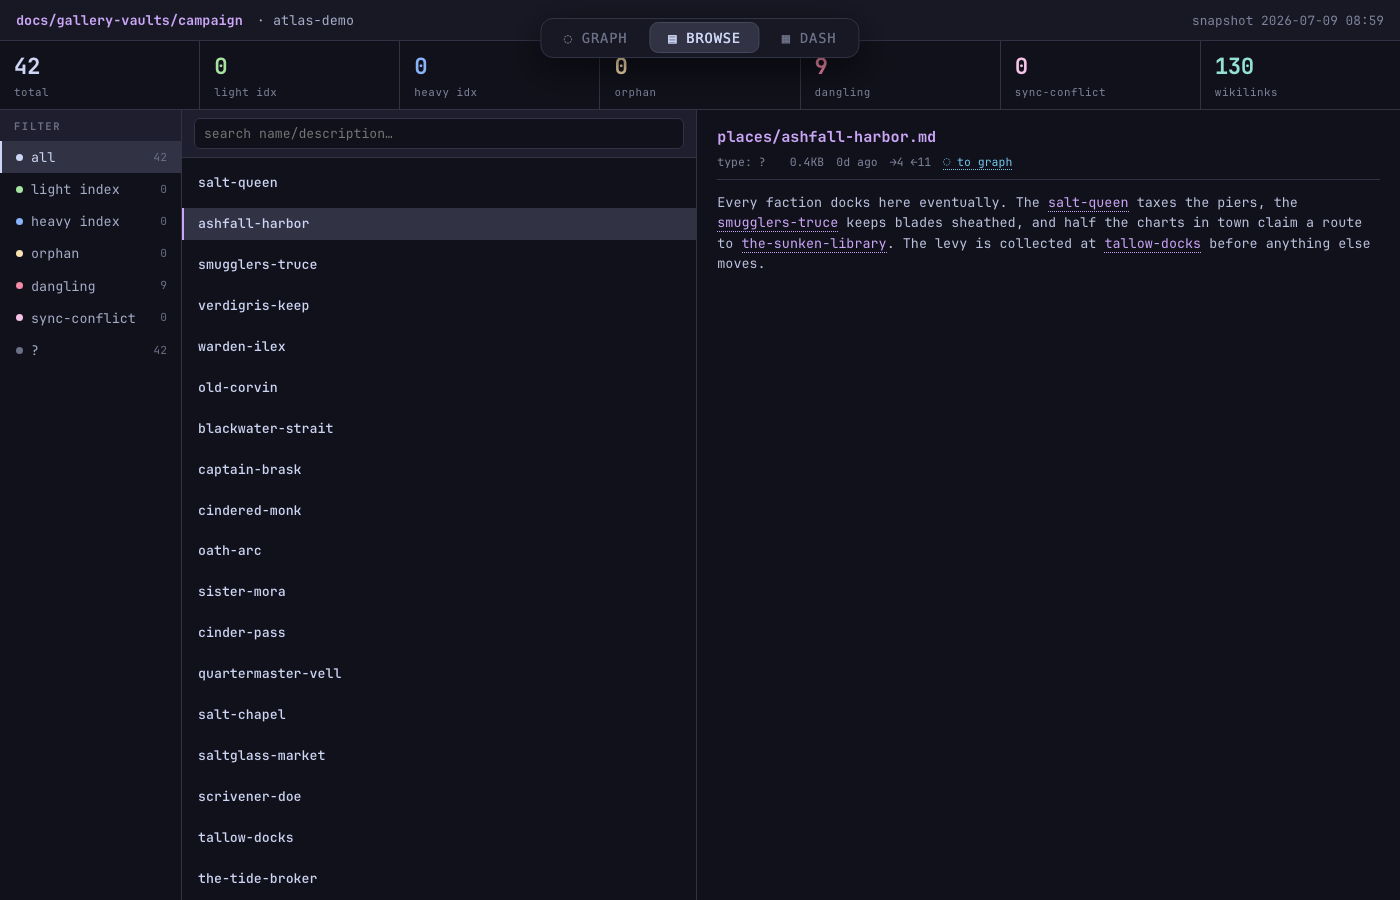
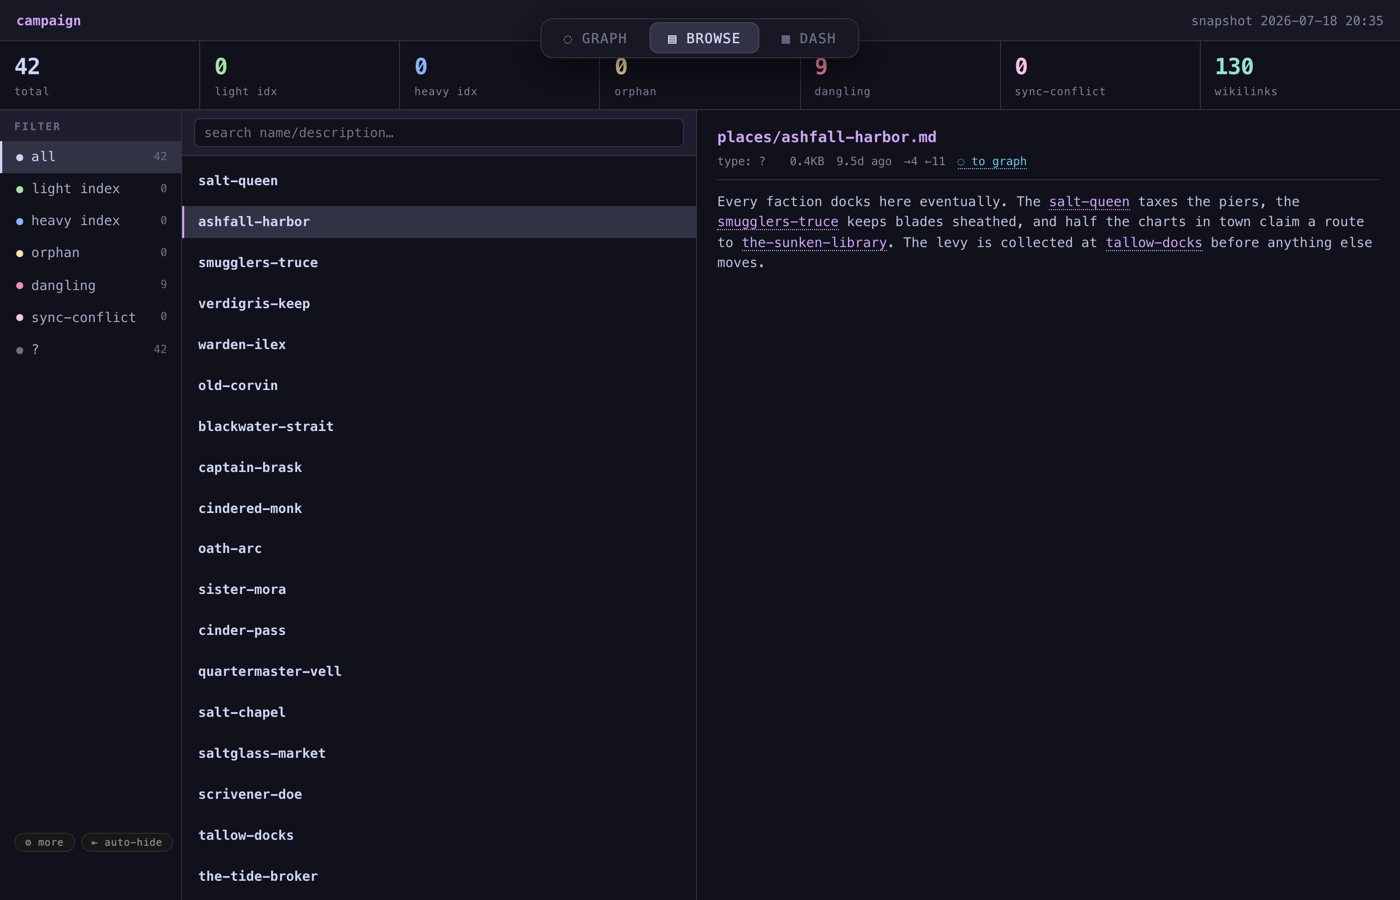
release: 2.20.0 — --anon, and a gallery that matches the tool
The generated page stamped platform.node() and the absolute vault path
into the footer, the browse header and the dash — in a file built to be
handed to people. Found it by reading /Users/<name>/ off my own
screenshots while re-shooting the gallery. --anon drops both; the flag
is documented in Privacy and covered by a self-test.

The published frames were shot at 2.4.1/2.6.0, before the 2.14 panel
rebuild and the 2.18 HUD move, and with edges drawn — but edges have
since become opt-in, so captions pointing at spokes and bridges pointed
at nothing a reader could see. All thirteen re-shot from the current
build by tools/shoot-gallery.mjs, one taste, one command next time.

Also: the README told readers to run dist/memory-atlas.pyz from a fresh
clone, and dist/ is gitignored and absent from the published tree.

diff --git a/memory-atlas.template.html b/memory-atlas.template.html
@@ -3,7 +3,7 @@
 <head>
 <meta charset="utf-8">
 <meta name="viewport" content="width=device-width, initial-scale=1">
-<meta name="atlas-tpl" content="2.19.0"><!-- G5 handshake: must equal generator VERSION; the generator warns on skew (stale symlink pair) -->
+<meta name="atlas-tpl" content="2.20.0"><!-- G5 handshake: must equal generator VERSION; the generator warns on skew (stale symlink pair) -->
 
 <title>memory-atlas</title>
 <style>

diff --git a/README.md b/README.md
@@ -8,7 +8,7 @@ The point isn't "a graph of my wikilinks". It's **overlap**: the generator runs 
 
 ![overview — four topic zones on a synergy ring, cross-zone bridges through the middle](docs/shots/overview.png)
 
-*Four folders — chemistry, cooking, gardening, music — laid out on a zone-synergy ring. The dashed lines cutting across the center are bridges the detectors drew: notes in different folders that share a missing reference, a tag, or a co-edit. Nobody wrote those links by hand.*
+*The built-in demo vault — chemistry, cooking, gardening, music — on the zone-synergy ring. Solid lines are `[[wikilinks]]` somebody typed. The dashed one crossing from the cooking arc to the chemistry arc is not: nobody wrote a note called `maillard-reaction`, but `searing-steak` in `cooking/` and `amino-acids` in `chemistry/` both cite it, and that shared gap is a bridge the `shared_ref` detector drew. (Edges start hidden in the real page — press `9` or the EDGES chip. Lines are noise until you ask for them.)*
 
 ## Quick start
 
@@ -24,9 +24,10 @@ one zone of its own, and `[[links]]` resolve same-root first, then across roots 
 used to dangle as a ghost snaps to the real note in the other root. `--dump-data -` emits the
 graph JSON instead of rendering (the source end for external pipeline builders).
 
-Or the zero-clone route — one file, nothing else:
+Or pack it into a single file you can carry around — one `.pyz`, no repo:
 
 ```bash
+python3 installer/build_pyz.py     # → dist/memory-atlas.pyz (stdlib, ~200K)
 python3 dist/memory-atlas.pyz --demo
 python3 dist/memory-atlas.pyz --src ~/my-vault
 ```
@@ -60,6 +61,8 @@ Full walkthrough: [docs/QUICKSTART.md](docs/QUICKSTART.md). More lives of the sa
 ## Privacy
 
 Everything runs on your machine and the output is a static local page. The generated HTML **embeds note titles, descriptions and body text** — treat the built file like the vault itself: regenerate for others, don't reshare yours. The demo vault is synthetic.
+
+The page also stamps **who built it**: the machine's hostname and the absolute path of the vault, shown in the footer, the browse header and the dash. That is useful for yourself — two hosts, two atlases, and you can tell which is which — and it is exactly what you do not want in a file you hand to someone else or drop into a bug report. Build those with **`--anon`**: no hostname, and the source reads as the vault's folder name instead of `/home/yourname/…`. (Anonymising drops editor-open for that file, which resolves note paths against the real root.) Every screenshot in this repo is built that way.
 
 ## Zones — your names, not ours
 
@@ -120,12 +123,15 @@ drives a headless browser and asserts the search behaviour that actually ships. 
 
 ## Development
 
-- `dist/` is a build artifact (`python3 installer/build_pyz.py`), gitignored in dev; the published repo ships a prebuilt copy for the zero-clone route.
+- `dist/` is a build artifact (`python3 installer/build_pyz.py`) and is gitignored — build it when you want the single-file bundle.
+- `tools/shoot-gallery.mjs` re-shoots every frame in the README and the gallery from the example vaults (`node tools/shoot-gallery.mjs [case…]`, needs Playwright and a local Chrome). The frames carry the version stamp and the whole HUD, so they go stale on their own — re-shoot them when the interface moves, not by hand.
 - Deployed locally as `~/bin` symlinks (generator + template travel as a PAIR — the generator warns on version skew).
 - Durable off-machine backup channel: `git push origin main` (bare repo); Gitea intentionally skipped per backup topology.
 - CI (`.github/workflows/ci.yml`): ubuntu/macos/windows × py3.8/3.12 — self-test + demo build + `.pyz` build.
 
 ## Changelog
+
+- **2.20.0** (2026-07-18) — **the page stopped naming the machine that built it.** Every generated atlas stamped `platform.node()` and the absolute path of the vault into the footer, the browse header and the dash — in a file whose entire purpose is being self-contained and handed to someone. The Privacy section told you to "regenerate for others", which does not remove either. New **`--anon`**: no hostname, and the source shows as the vault's folder name rather than `/home/yourname/notes` (it trades away editor-open for that build, which resolves note paths against the real root). Found the way these things are found — re-shooting the gallery and reading `/Users/…` off my own screenshots. **The frames were describing a page that no longer exists.** The published set was shot at 2.4.1/2.6.0, before the 2.14 panel rebuild and the 2.18 HUD move, and it was shot with edges drawn — but edges have since become opt-in (they are noise until you ask), so captions like "everything routes through the matriarch" pointed at a fan of spokes that a reader following along would not see. Every frame is re-shot from the current build by **`tools/shoot-gallery.mjs`** — one taste for all thirteen (1400×900, rendered at 2× and published at 1×, English UI, edges on, pointer parked so no stray hover card, and long enough after the fit that its toast has faded), so the next release re-shoots with one command instead of by hand. The README hero now names the bridge it is pointing at: nobody wrote `maillard-reaction`, but `searing-steak` and `amino-acids` both cite it. Also: the `.pyz` "zero-clone route" told you to run `dist/memory-atlas.pyz` from a fresh clone, and `dist/` is gitignored and not in the published tree — the file was never there. It now says to build it. And the four pins strings the 2.19.0 merge left untranslated (the i18n drift-guard caught two; the other two live in `T()` calls, which that guard does not scan).
 
 - **2.19.0** (2026-07-18) — an audit pass over the 2.18.0 fixes, and the first tests that actually run the page. **The search fix had switched the reranker off.** Restoring the two-word dropdown filled the candidate pool — and the semantic pass was gated on `sHits.length < 3`, a threshold calibrated back when that pool was empty on every two-word query. With the pool full the gate never opened again: measured in a browser, `semanticPass` was called **0 times** on a query whose pool held 6 rows. The commit that fixed recall would have quietly removed the one channel that finds a note whose words you did not type. It now runs whenever the page carries vectors, and reserves 3 of the 10 visible slots for hits only it can produce — a channel that appears solely when the other one fails is not a channel. **`--barH` was derived from a hidden element.** `v` hides the bar but not the HUD foot, and a `display: none` element reports an all-zero rect, so the variable resolved to `801px` on an `813px` viewport and put the foot's bottom edge above the top of the window — the fold pills left the screen. The value is now held when the bar is not laid out, and the observer watches the bar's children too: the measurement deliberately distrusts the container's own box, so watching only that box meant the exact case that staled the value was the case that fired no callback. **Title parking leaked both ways**: a control that rewrites its own `title` while hovered (the dice's page counter, the collisions row) un-parked itself behind the parking code's back — the OS tooltip returned on top of the hint card, and the stale string then overwrote the fresh one on exit; and leaving the document hid the card without restoring anything, so that control had no tooltip until an unrelated hover. Live rewrites now route through the stash, and every hide path tears down. Ranking: the exact-phrase boost was built from the raw query while the terms were normalised, so a double space — fast typing, or a paste — silently disabled it; coverage counted repeated terms instead of distinct ones, ranking by repetition while calling itself coverage; wrapper punctuation (quotes, brackets, sentence tails) is trimmed off token edges, so pasting a note's own title in quotes finds that note, while interior punctuation survives — the first version of that trim ate `c++` and the dashes off `--search-vecs`, which is why it is a test. The shelf's 200-cap ran over file order *before* ranking and started discarding both-term matches once OR'ed terms made most of a glossary qualify; it now cuts the ranked list. The `file://` semantic message named one cause as certain when the page cannot distinguish them — a blocked origin and a stopped daemon arrive as the same opaque error, and `OLLAMA_ORIGINS` allowing `file://` is a documented, working setup that the previous wording denied — so it names both. New: **`tests-search.py`** drives a real browser and asserts the shipped `runSearch`/`queryTerms`, because the 54-test suite that shipped 2.18.0 green executes no page JavaScript at all and could not have failed on any of this; **`perf/corpus-bench.py`** measures search cost per corpus through the page's own functions over CDP, with `perf/synth-corpus.py` for reproducible corpora and `perf/histofmt.py` rendering the result — see [`docs/EVAL.md`](docs/EVAL.md).
 

diff --git a/docs/GALLERY.md b/docs/GALLERY.md
@@ -6,13 +6,17 @@ Every case below is a tiny **runnable vault** checked into `docs/gallery-vaults/
 rebuild any screenshot yourself:
 
 ```bash
-./memory-atlas --src docs/gallery-vaults/<case> --lang en \
+./memory-atlas --src docs/gallery-vaults/<case> --lang en --anon \
   --no-semantic-cross --no-temporal-cross --no-session-cross
 ```
 
 (The three `--no-*` flags keep the builds deterministic and offline — the bridges you
-see are wikilinks, shared ghosts and tag overlap only. Then open the printed file with
-the query string from the case.)
+see are wikilinks, shared ghosts and tag overlap only. `--anon` keeps the author's
+hostname and home directory out of the published frames. Then open the printed file
+with the query string from the case, and press `9` to draw the edges — the page starts
+with them hidden, but half of what these captions point at lives on an edge.)
+
+All of it at once: `node tools/shoot-gallery.mjs`.
 
 ---
 
